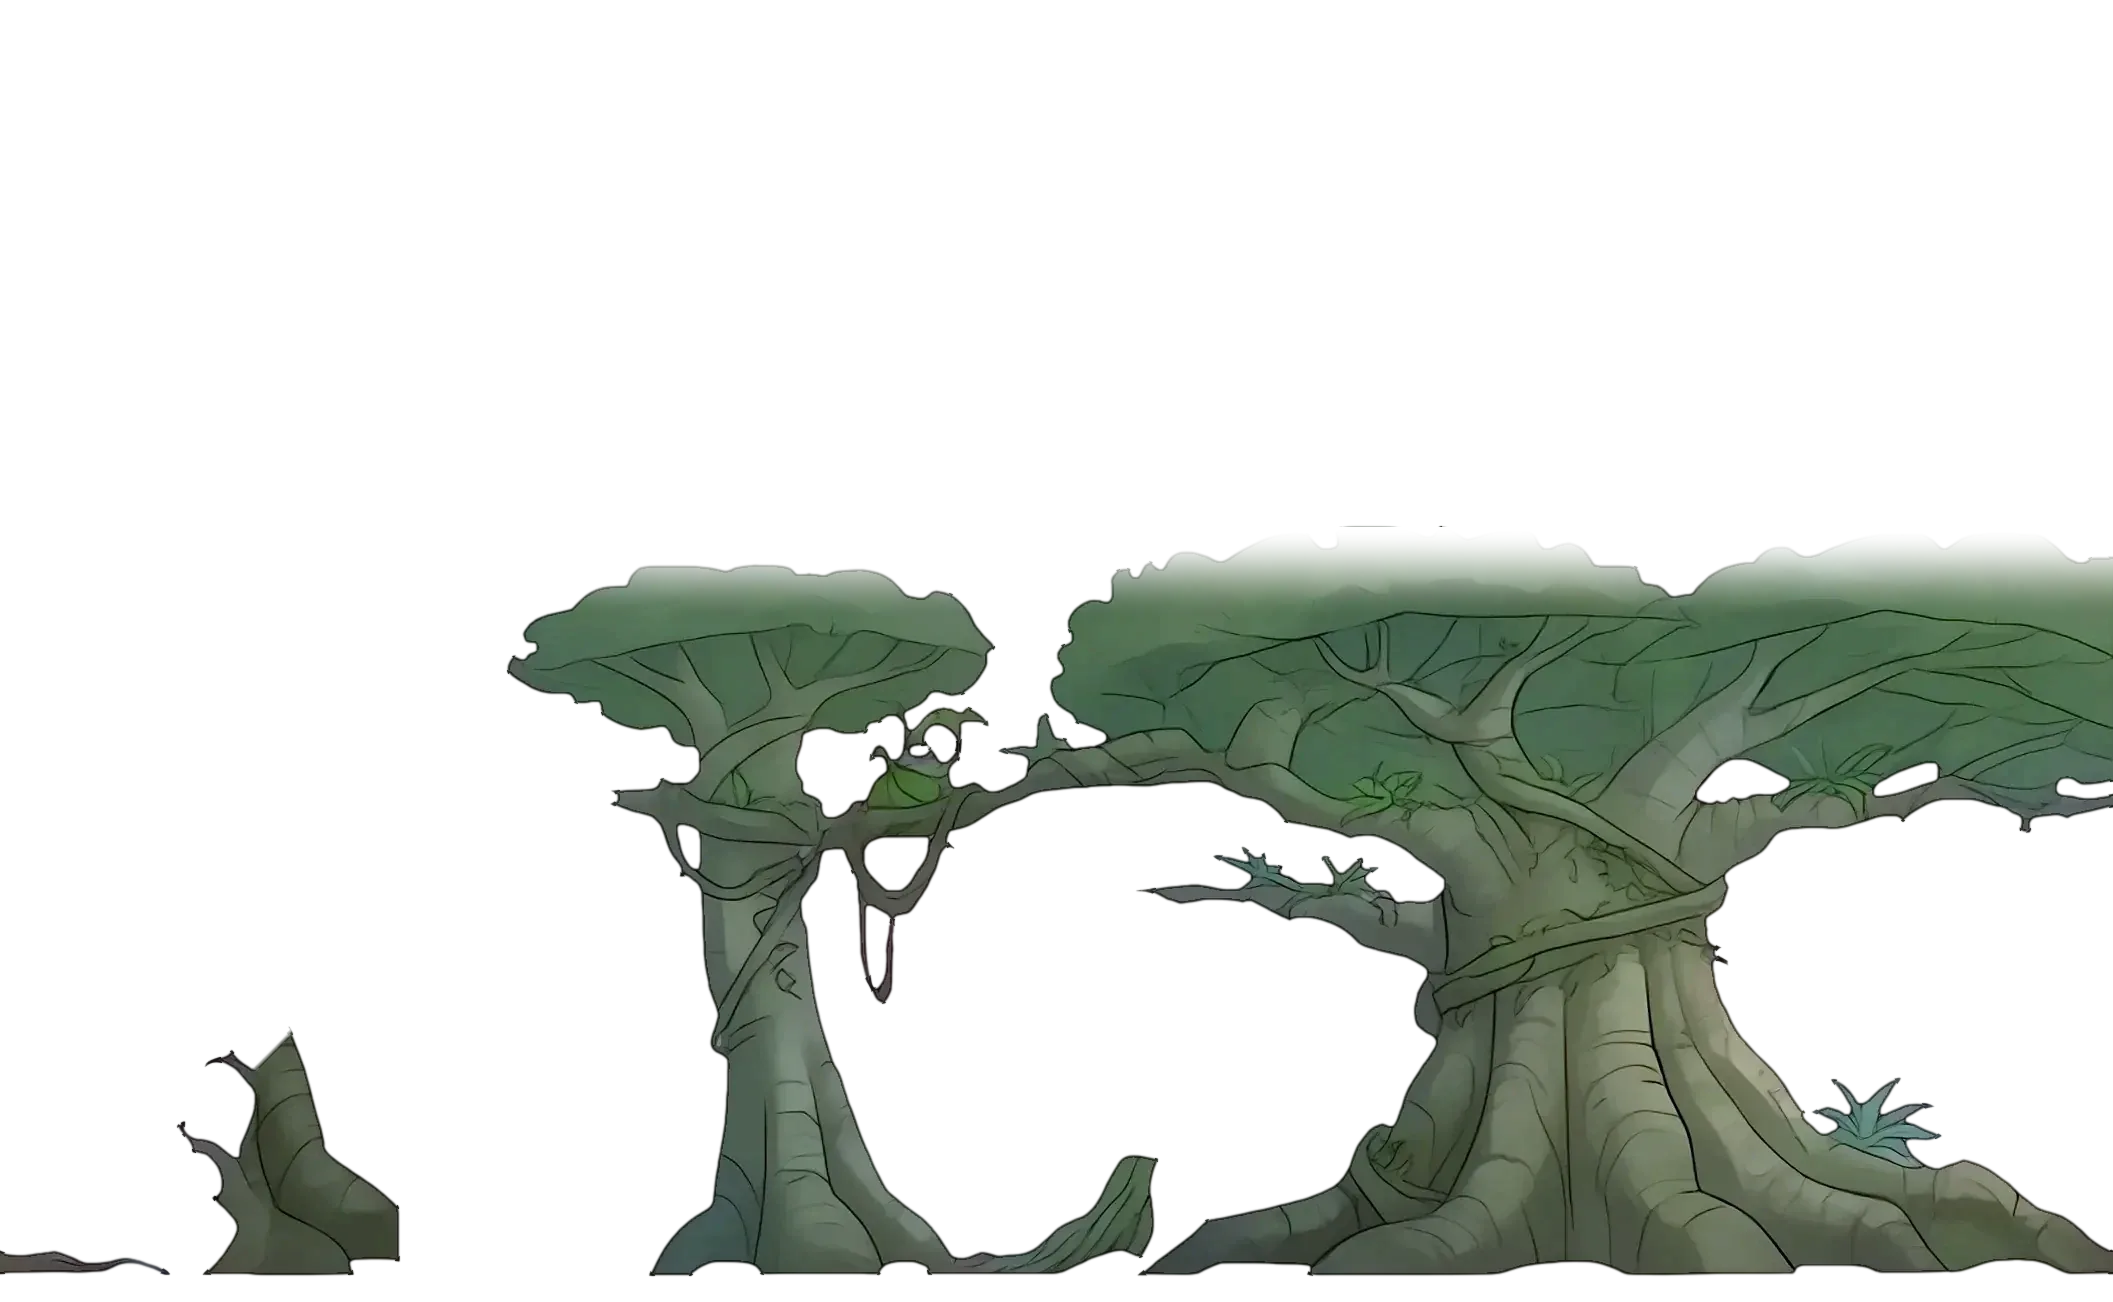
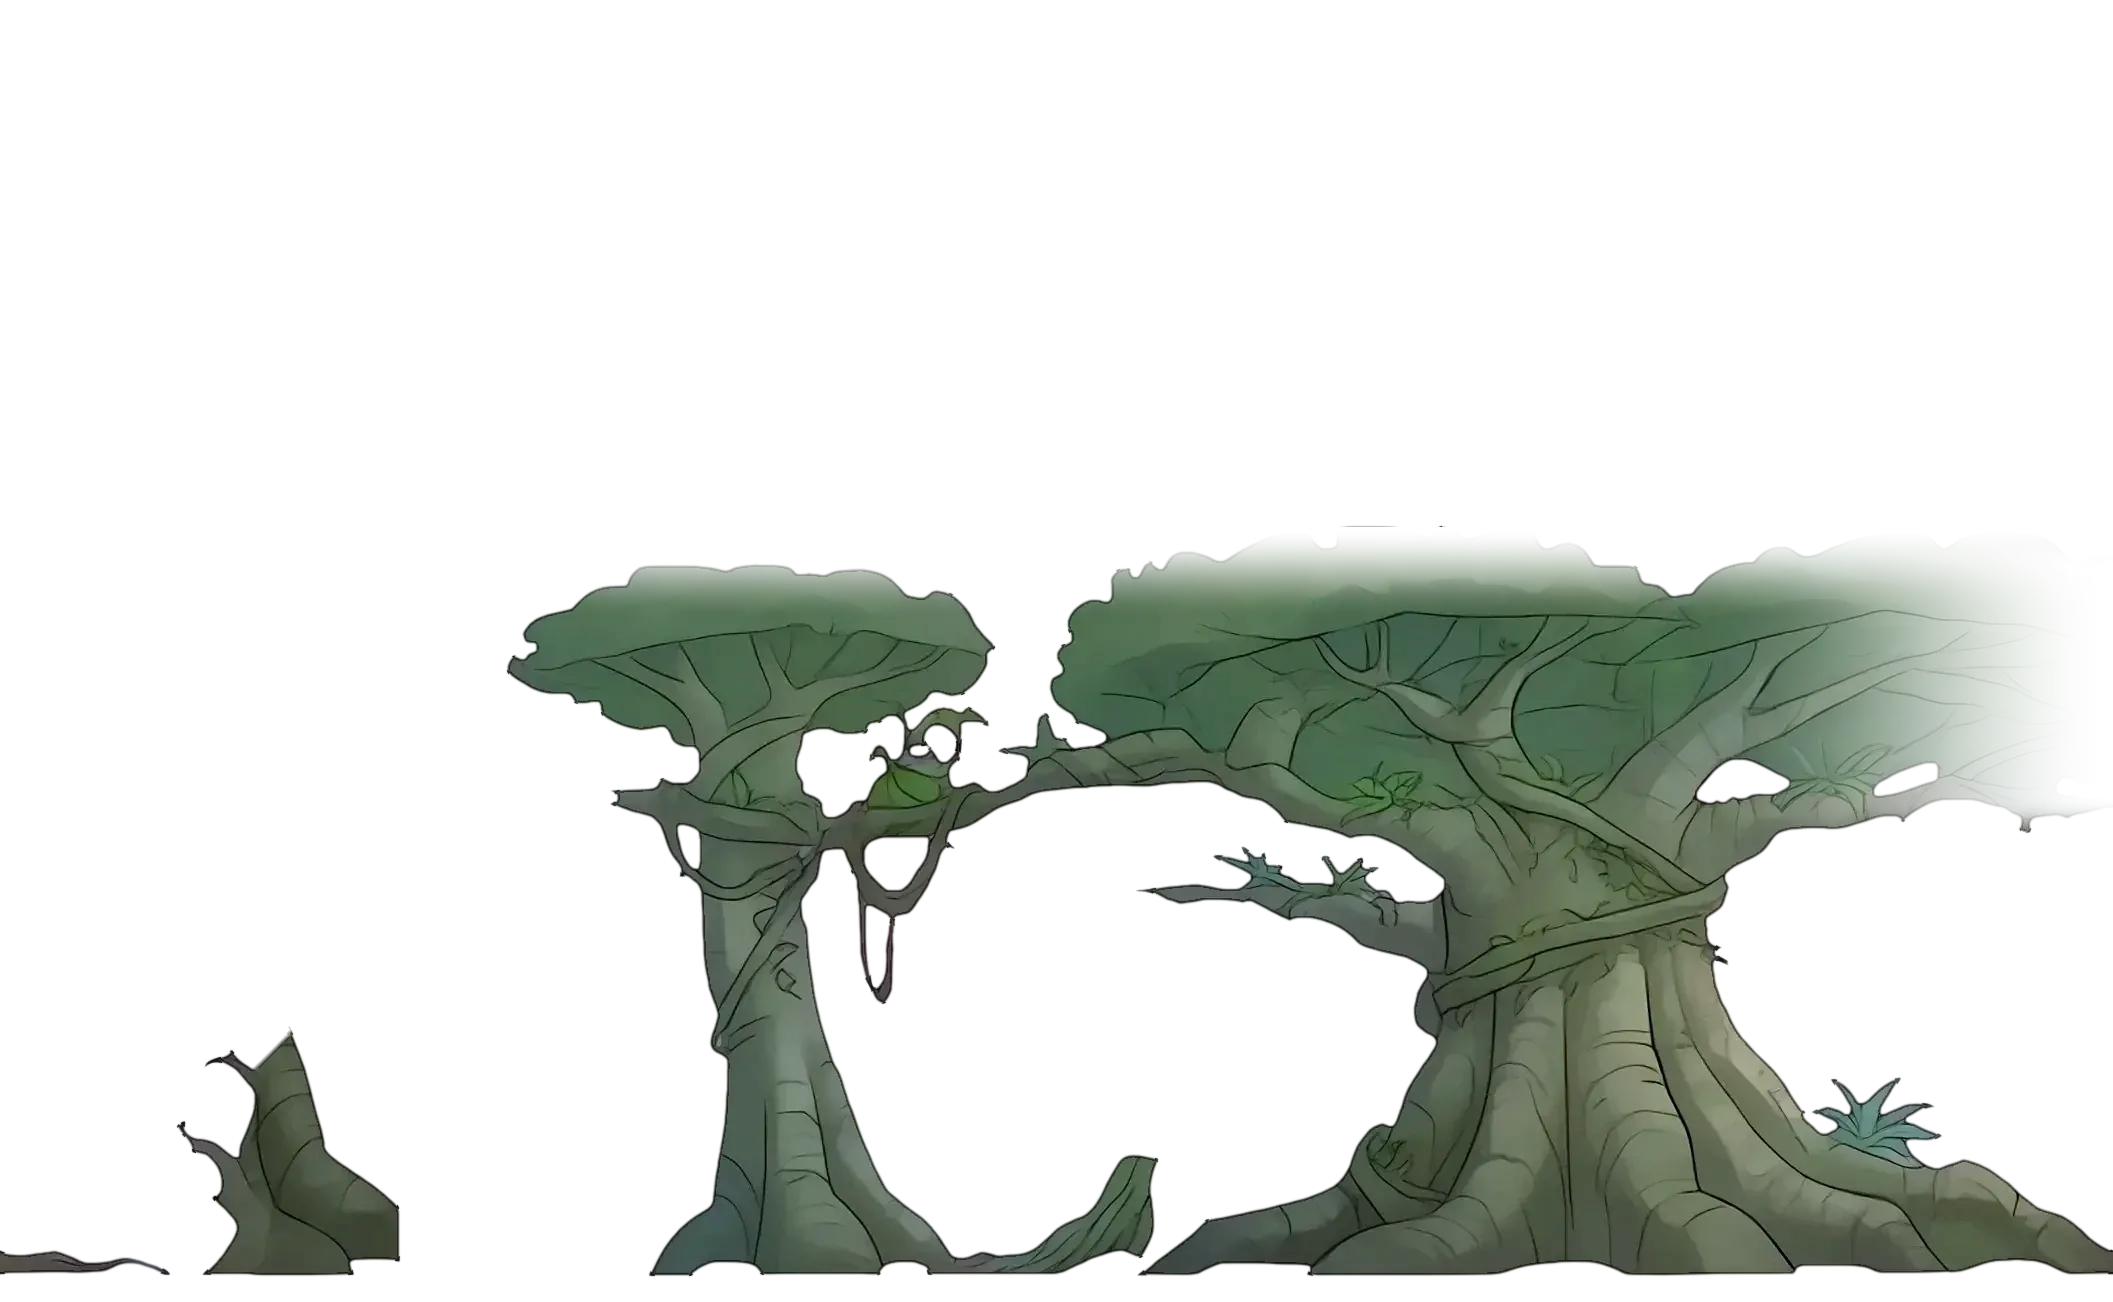
INT-9: 1-7's pale haze block fixed at its root: w1kapok-mid's canopy no longer cut by its own wrap border (the lead's ruling 3:59 PM ET)
Source, proven on the real page (layer-by-layer probe, then every draw call over a block pixel): not a haze layer or an overlay. The
painted middle strip of set w1kapok (FAR_BY_STAGE: 1-7 and 1-9) paints a kapok canopy that its RIGHT border cuts straight through, while
its LEFT border is clear sky; drawn end to end (scenery.ts drawFitted), the canopy stopped in a vertical line where the strip wraps, and
under the mid haze veil it read as a pale block with a hard right side (rough-haze-b3-normal-side.jpg). It moved with the camera, so it
showed wherever the join came by.
Fix: tools/art/stripjoin.py feather (new): the cut rows' paint fades to nothing over the last 420 px before the border (smoothstep, the
row mask feathered so no row stair shows); rows that carry on across the join (the ground line, 23 rows) untouched. Measured: 18.4% of
rows cut at the join -> 0.0%; outside the band 1 visible px of 520,495 moved more than 12 (the q82 re-encode). Size 108,792 -> 111,678 B.
Before/after on the real page: reference/qa-reports/INT-9/haze/before-after-1-7-beat3-normal-side.jpg (the hard edge gone; the
canopy's flat painted top is the painting, not a join). The class across all 150 strips: haze/strip-joins.txt (61 with some cut rows,
10 over 6%), named in the REPORT with a ready packet; not changed here without a real-screen look at each.

Claude-Session: https://claude.ai/code/session_01FhBbYKSqV5AeZmMEkQ1msT

Changed region(s): [[0.8434, 0.3994, 1.0, 0.6452]]

diff --git a/tools/art/stripjoin.py b/tools/art/stripjoin.py
@@ -1,0 +1,72 @@
+"""stripjoin: a painted backdrop strip's wrap join (INT-9, the lead's ruling 11-14 3:59 PM ET).
+
+A strip is drawn end to end (scenery.ts drawFitted), so its right edge stands against its own left edge. A strip whose painting is cut
+by one border while the other border is clear sky shows that cut as a hard vertical edge in play: w1kapok-mid (1-7, 1-9) cut its kapok
+canopy at its right border, and under the mid haze veil it read as a pale block with a hard right side (INT-9's stills, beat 3).
+
+  python3 -I tools/art/stripjoin.py measure <strip.webp> ...        the share of rows CUT at the join (paint at one end, clear at the other)
+  python3 -I tools/art/stripjoin.py feather <strip.webp> <out.webp> [band px]
+      fades the cut rows' paint to nothing over the last `band` px before the border that cuts it (smoothstep; rows feathered so no row
+      step shows). Rows opaque at BOTH ends (painting that carries on across the join, e.g. the ground line) are left exactly as they are.
+"""
+import sys
+import numpy as np
+from PIL import Image
+
+OPAQUE, CLEAR = 200, 40
+
+
+def cut_rows(al):
+    """rows whose paint (any that shows: alpha over CLEAR, a soft canopy top too) stops at one border while the other border is clear"""
+    return ((al[:, -1] > CLEAR) & (al[:, 0] < CLEAR)), ((al[:, 0] > CLEAR) & (al[:, -1] < CLEAR))
+
+
+def measure(path):
+    al = np.asarray(Image.open(path).convert('RGBA'))[..., 3].astype(np.float32)
+    r, l = cut_rows(al)
+    return float((r | l).mean() * 100)
+
+
+def row_mask(rows, H, grow=16, soft=10):
+    """the cut rows, grown a little and softened, so the fade has no stair at its top and bottom"""
+    m = rows.astype(np.float32)
+    k = np.ones(2 * grow + 1, np.float32)
+    m = np.clip(np.convolve(m, k, mode='same'), 0, 1)
+    g = np.exp(-0.5 * (np.arange(-3 * soft, 3 * soft + 1) / soft) ** 2)
+    m = np.convolve(m, g / g.sum(), mode='same')
+    return np.clip(m, 0, 1)
+
+
+def feather(src, out, band=420):
+    im = Image.open(src).convert('RGBA')
+    a = np.asarray(im).astype(np.float32)
+    H, W = a.shape[:2]
+    al = a[..., 3]
+    r, l = cut_rows(al)
+    # (never touch a row that carries on across the join)
+    both = (al[:, -1] > OPAQUE) & (al[:, 0] > OPAQUE)
+    t = np.linspace(0, 1, band, dtype=np.float32)
+    s = t * t * (3 - 2 * t)  # 0 at the border, 1 a band in
+    for rows, right in ((r, True), (l, False)):
+        if not rows.any():
+            continue
+        m = row_mask(rows, H) * (~both)
+        ramp = s[::-1] if right else s  # right: 1 -> 0 toward the border
+        k = 1 - m[:, None] * (1 - ramp[None, :])
+        if right:
+            al[:, W - band:] *= k
+        else:
+            al[:, :band] *= k
+    a[..., 3] = al
+    Image.fromarray(np.clip(a, 0, 255).astype(np.uint8), 'RGBA').save(out, 'WEBP', quality=82, method=6)
+
+
+if __name__ == '__main__':
+    if sys.argv[1] == 'measure':
+        for p in sys.argv[2:]:
+            print(f'{measure(p):5.1f}% of rows cut at the join  {p}')
+    elif sys.argv[1] == 'feather':
+        feather(sys.argv[2], sys.argv[3], int(sys.argv[4]) if len(sys.argv) > 4 else 420)
+        print('before', f'{measure(sys.argv[2]):.1f}%', 'after', f'{measure(sys.argv[3]):.1f}%')
+    else:
+        sys.exit(__doc__)
